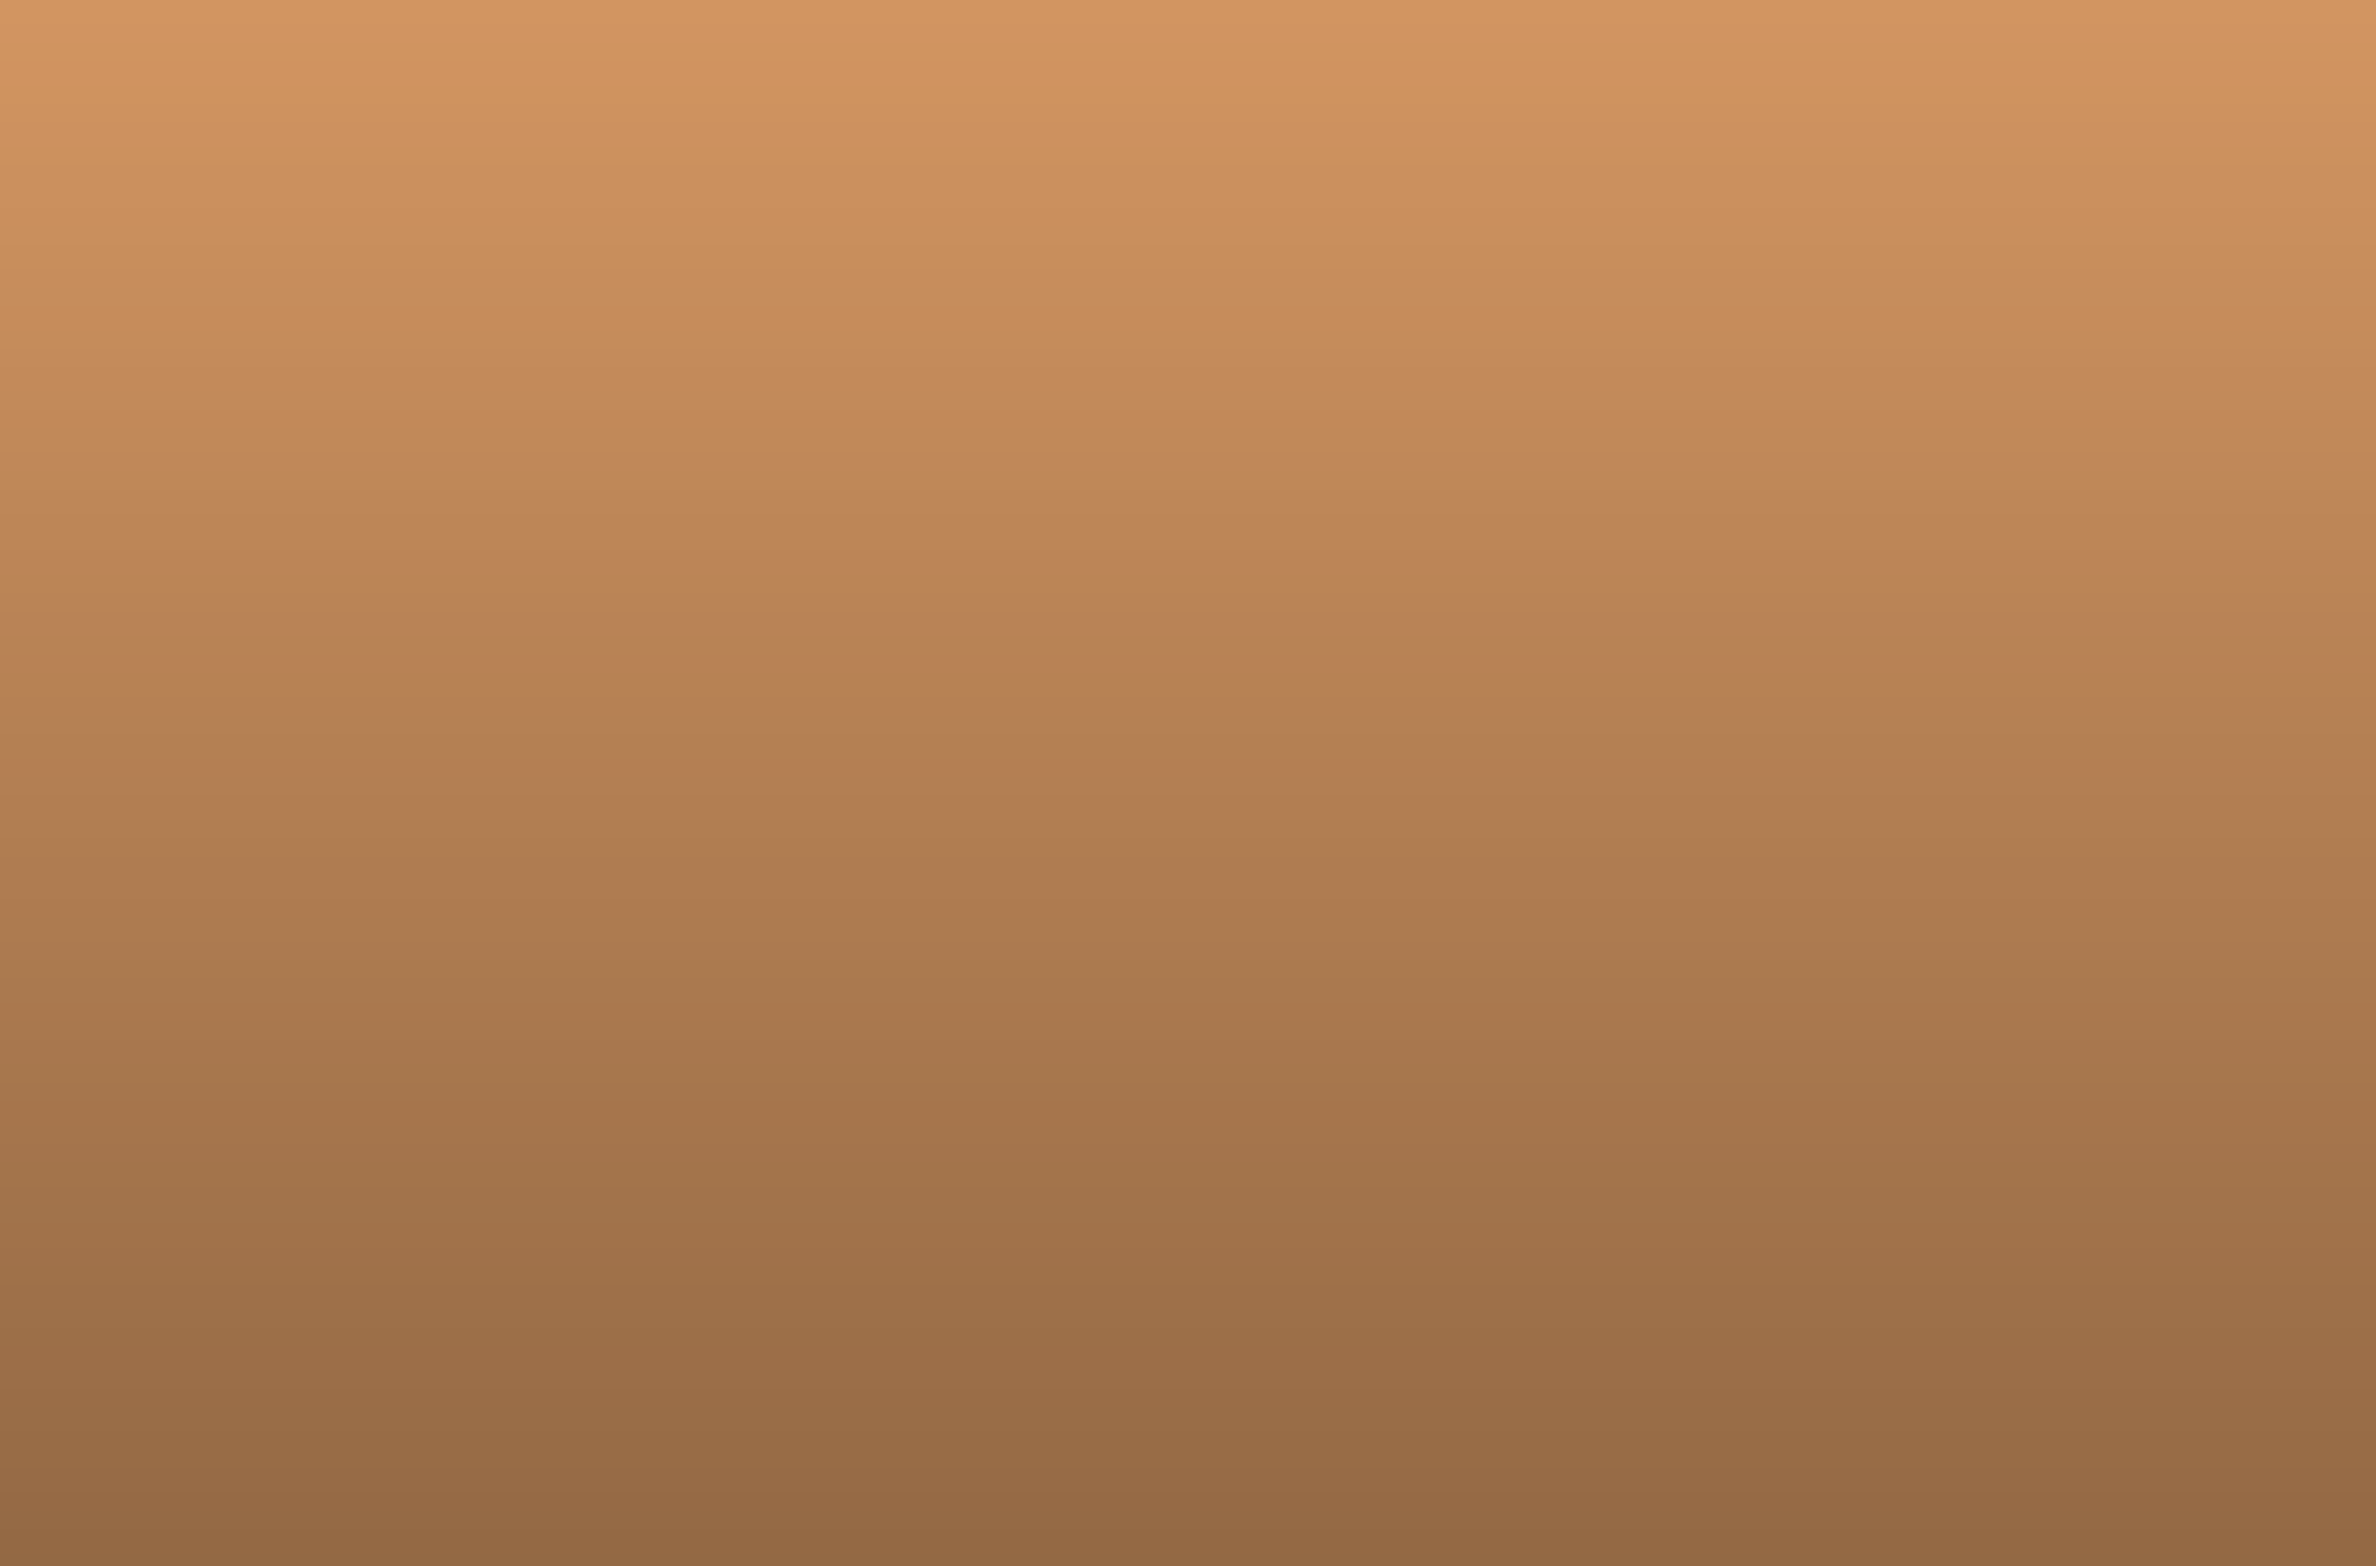
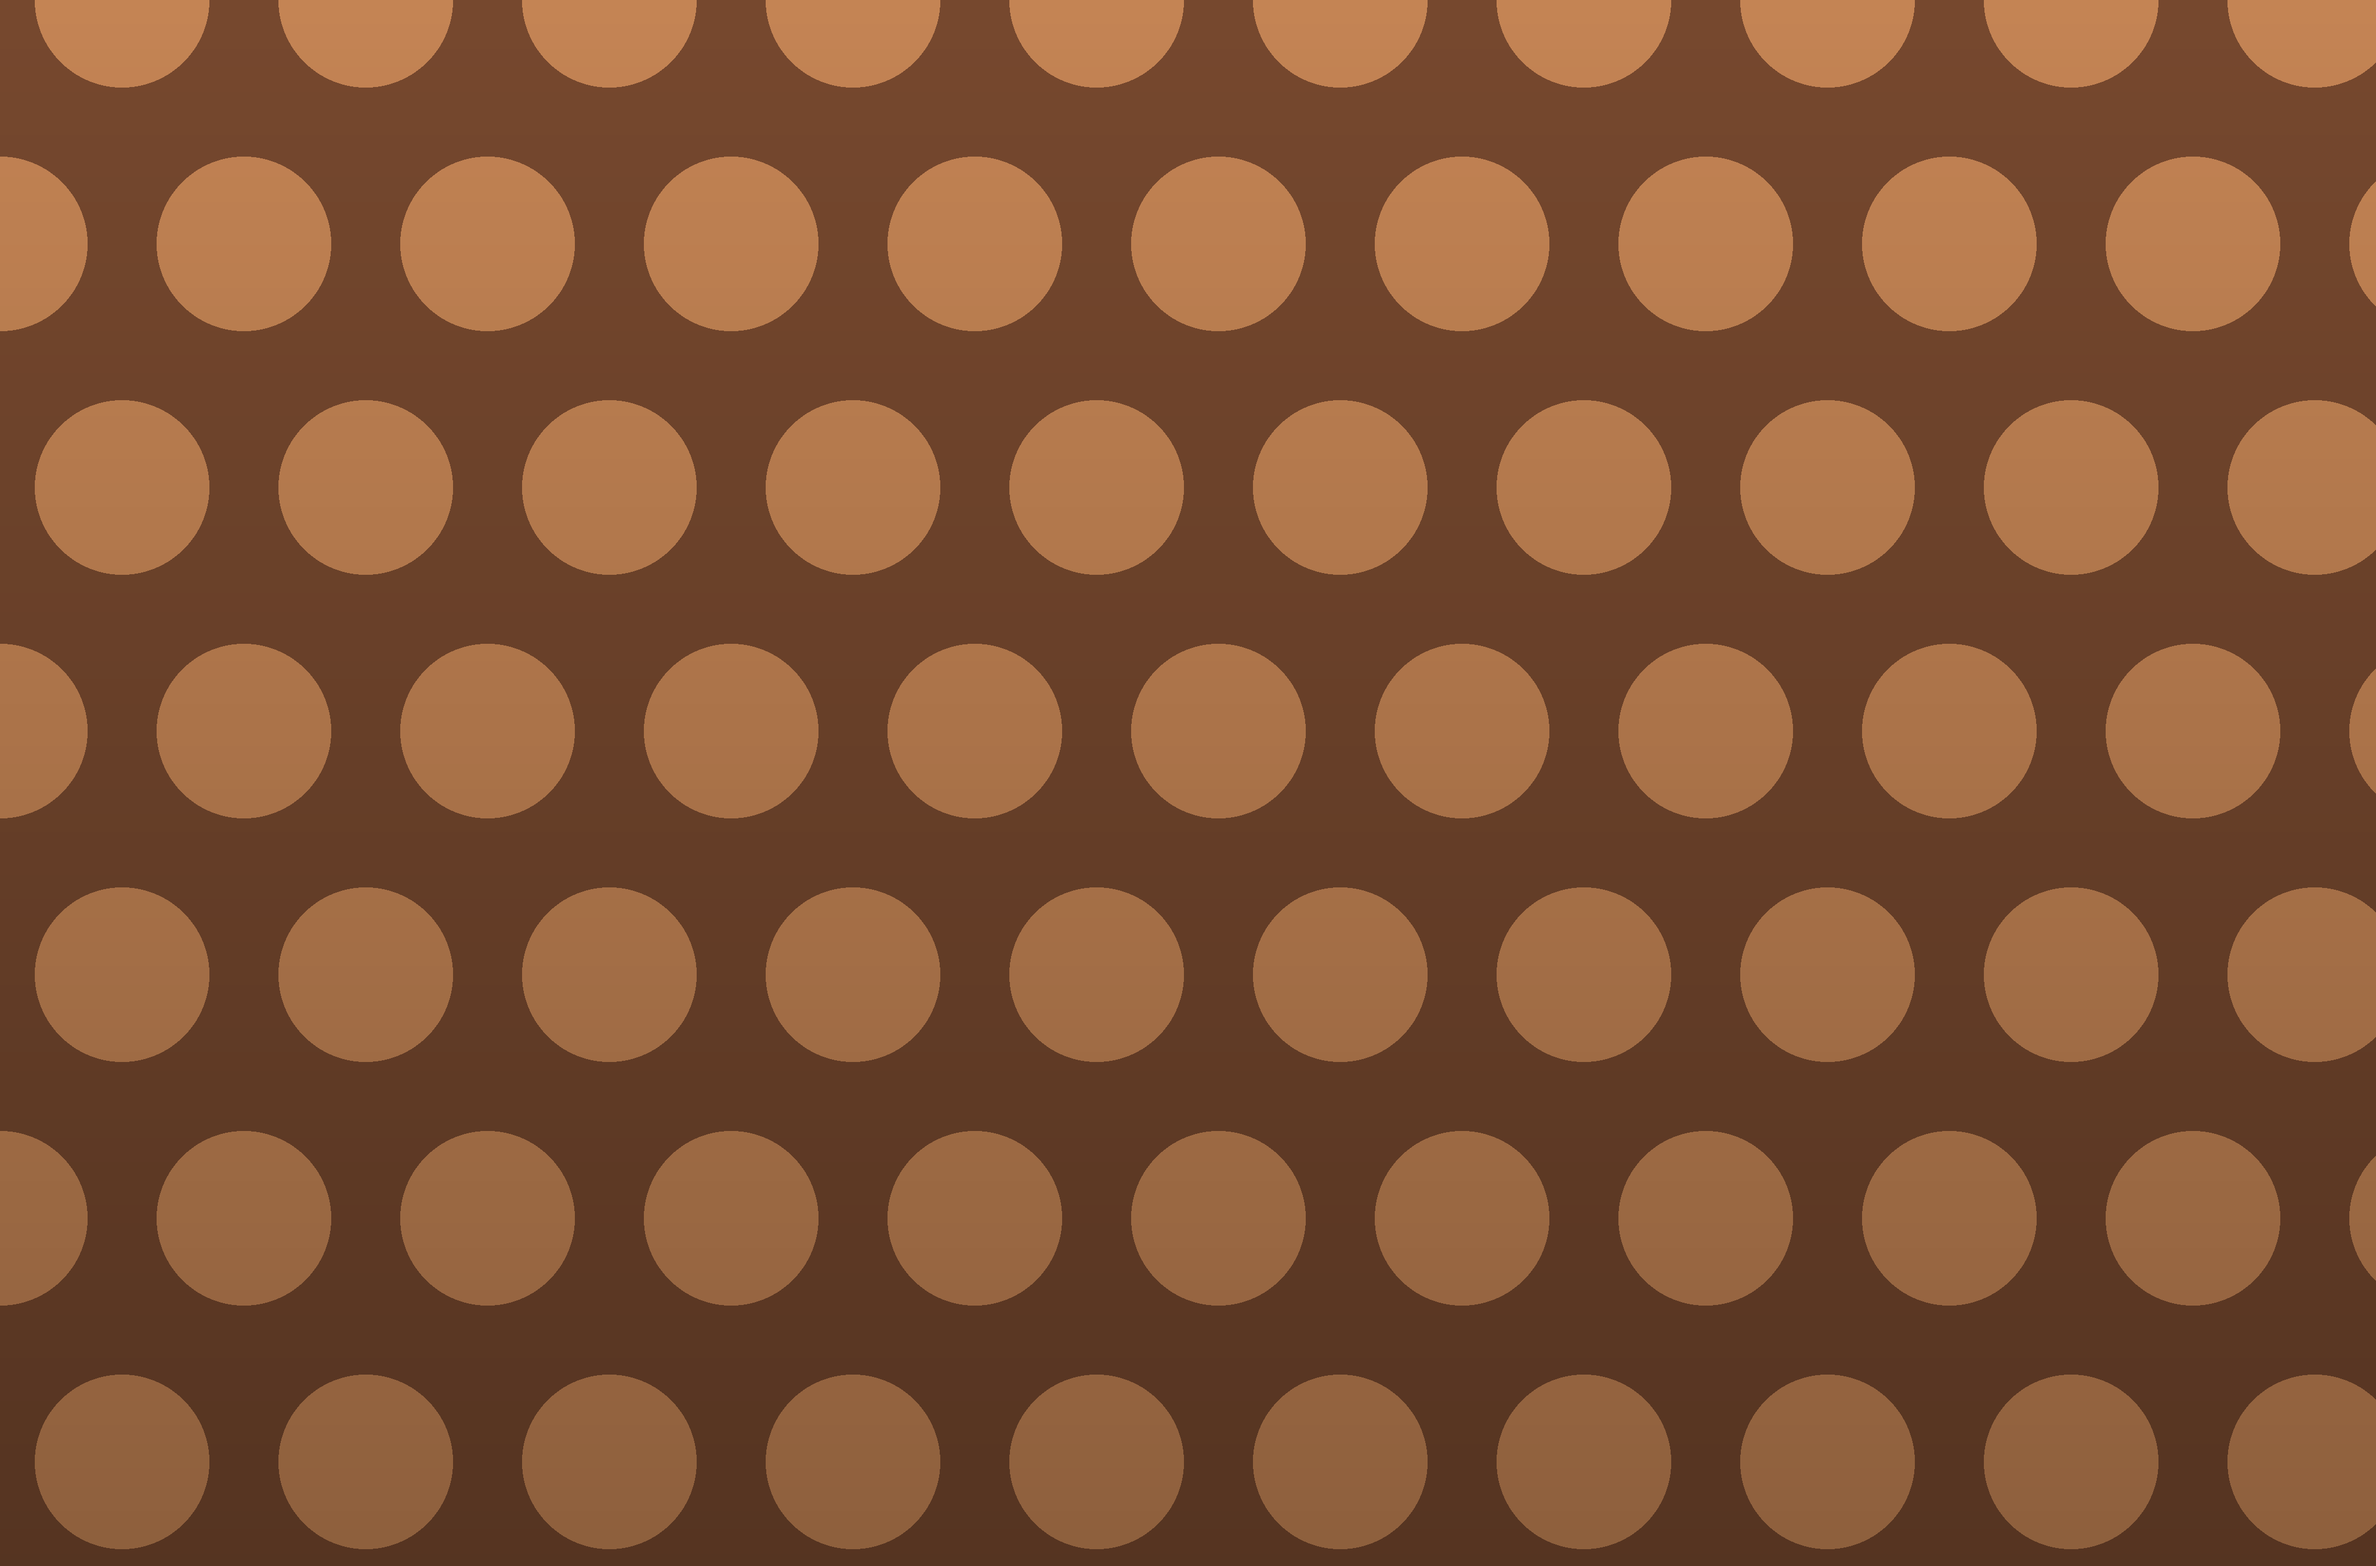
Infinite screens: backgrounds with features big enough to be seen moving
The tiled textures read as flat colour at the film's scale, and as
nothing at all through a screen — a scroll of a featureless field is no
scroll. The three backgrounds are broad diagonal stripes, big dots and
big hexagons now, hundreds of pixels each, so the pan reads on the
canvas, on the laptop's screen, and on the tablet's screen inside it.
make-backgrounds.py is the generator; it reproduces the three files
byte for byte.

diff --git a/demos/c9-infinite-screens/make-backgrounds.py b/demos/c9-infinite-screens/make-backgrounds.py
@@ -1,0 +1,47 @@
+#!/usr/bin/env python3
+"""The three scrolling backgrounds — stripes, dots, hexagons.
+
+Each feature is hundreds of pixels across on purpose: the pan has to read
+on the canvas, through the laptop's screen, and through the tablet's
+screen inside it, and a finer texture is flat colour at that depth.
+Writes into resources/ (or the folder given as the first argument)."""
+import math, os, sys
+from PIL import Image, ImageDraw
+
+R = sys.argv[1] if len(sys.argv) > 1 else os.path.join(os.path.dirname(os.path.abspath(__file__)), 'resources')
+W, H = 4096, 2700
+
+def stripes(base, tone, period=520, width=240, angle=-28):
+    big = Image.new('RGB', (W * 2, H * 2), base); d = ImageDraw.Draw(big)
+    lean = 2 * H * math.tan(math.radians(angle))
+    for x in range(-W * 2, W * 3, period):
+        d.polygon([(x, 0), (x + width, 0), (x + width - lean, 2 * H), (x - lean, 2 * H)], fill=tone)
+    return big.resize((W, H), Image.LANCZOS)
+
+def dots(base, tone, step=420, r=150):
+    im = Image.new('RGB', (W, H), base); d = ImageDraw.Draw(im)
+    for j, y in enumerate(range(-step, H + step, step)):
+        for x in range(-step + (step // 2 if j % 2 else 0), W + step, step):
+            d.ellipse([x - r, y - r, x + r, y + r], fill=tone)
+    return im
+
+def hexes(base, tone, r=230):
+    im = Image.new('RGB', (W, H), base); d = ImageDraw.Draw(im)
+    dx = r * math.sqrt(3); dy = r * 1.5
+    for j, y in enumerate(range(-int(dy), H + int(dy), int(dy))):
+        for x in range(-int(dx) + (int(dx / 2) if j % 2 else 0), W + int(dx), int(dx)):
+            d.polygon([(x + r * 0.86 * math.cos(math.radians(60 * k + 30)),
+                        y + r * 0.86 * math.sin(math.radians(60 * k + 30))) for k in range(6)], fill=tone)
+    return im
+
+def vignette(im):
+    """Darker towards the bottom, where the floor meets it."""
+    grad = Image.linear_gradient('L').resize((W, H)).point(lambda v: int(v * 0.28))
+    return Image.composite(Image.new('RGB', (W, H), (0, 0, 0)), im, grad)
+
+if __name__ == '__main__':
+    os.makedirs(R, exist_ok=True)
+    vignette(stripes((62, 86, 150), (96, 128, 205))).save(os.path.join(R, 'bg_laptop.png'), optimize=True)
+    vignette(dots((118, 72, 46), (196, 132, 84))).save(os.path.join(R, 'bg_tablet.png'), optimize=True)
+    vignette(hexes((36, 96, 78), (70, 158, 124))).save(os.path.join(R, 'bg_phone.png'), optimize=True)
+    print({f: os.path.getsize(os.path.join(R, f)) // 1024 for f in ('bg_laptop.png', 'bg_tablet.png', 'bg_phone.png')})
